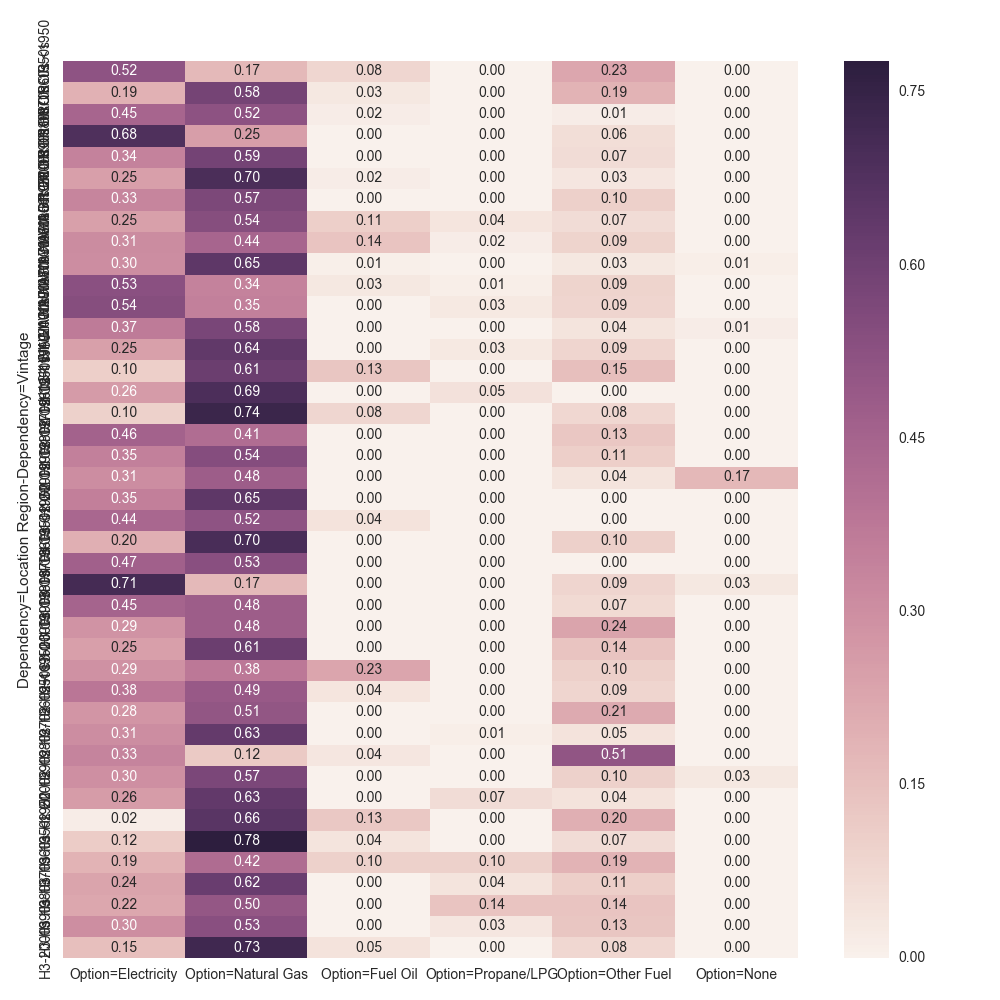
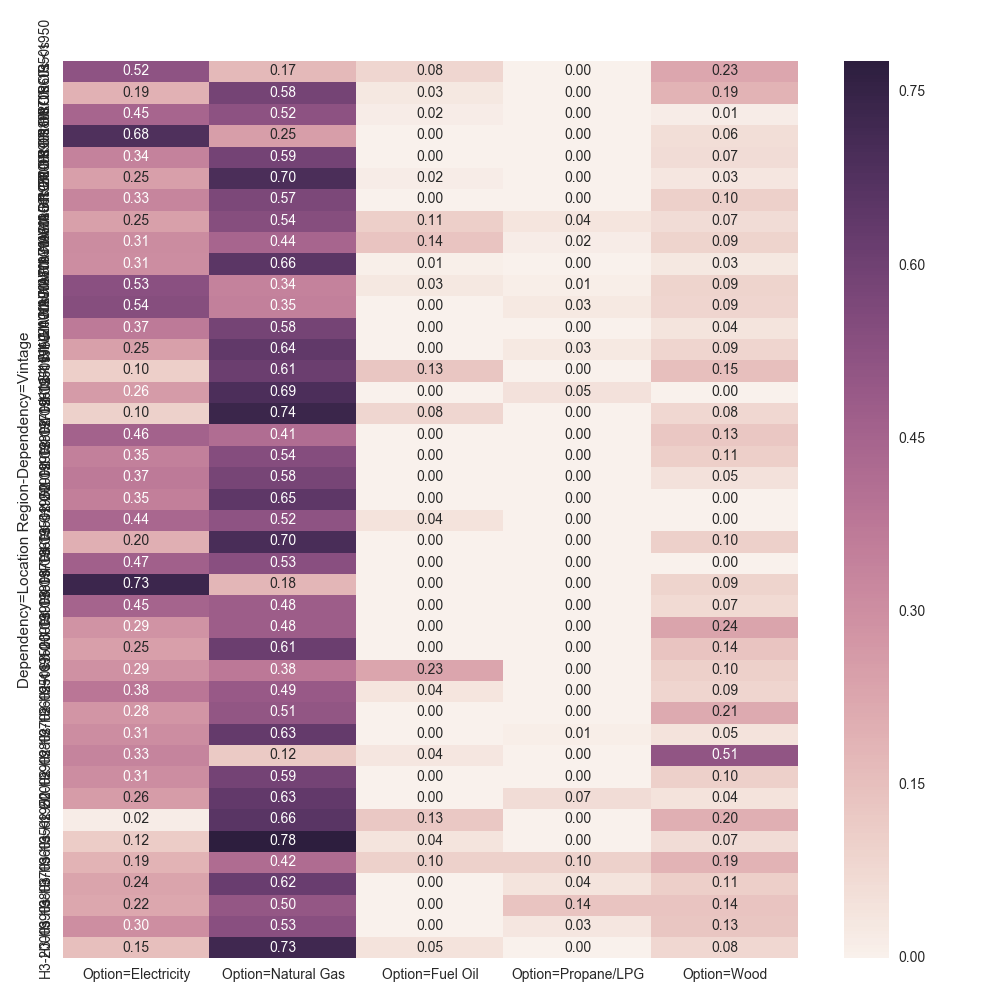
Removing None and renaming Other Fuel To Wood for Heating Fuel.

Changed region(s): [[0.062, 0.062, 0.806, 0.992]]

diff --git a/data/rbsa/main.py b/data/rbsa/main.py
@@ -83,7 +83,7 @@ class Create_DFs():
             df_new['Weight'] = 0
             df = df.append(df_new)
         df = add_option_prefix(df)
-        df = df[['Option=Electricity', 'Option=Natural Gas', 'Option=Fuel Oil', 'Option=Propane/LPG', 'Option=Other Fuel', 'Option=None', 'Count', 'Weight']]
+        df = df[['Option=Electricity', 'Option=Natural Gas', 'Option=Fuel Oil', 'Option=Propane/LPG', 'Option=Wood', 'Count', 'Weight']]
         df = df.reset_index()
         df['Dependency=Vintage'] = pd.Categorical(df['Dependency=Vintage'], ['<1950', '1950s', '1960s', '1970s', '1980s', '1990s', '2000s'])        
         df = df.sort_values(by=['Dependency=Location Region', 'Dependency=Vintage']).set_index(['Dependency=Location Region', 'Dependency=Vintage'])        
@@ -1145,7 +1145,7 @@ if __name__ == '__main__':
     dfs = Create_DFs('rbsa.sqlite')
     
 #    for category in ['Location Region', 'Vintage', 'Heating Fuel', 'Geometry Foundation Type', 'Geometry House Size', 'Geometry Stories', 'Insulation Unfinished Attic', 'Insulation Wall', 'Heating Setpoint', 'Cooling Setpoint', 'Insulation Slab', 'Insulation Crawlspace', 'Insulation Unfinished Basement', 'Insulation Finished Basement', 'Insulation Interzonal Floor', 'Windows', 'Infiltration', 'HVAC System Combined', 'HVAC System Heating', 'HVAC System Cooling', 'HVAC System Is Combined', 'Ducts', 'Water Heater', 'Lighting', 'Cooking Range', 'Clothes Dryer', 'Insulation Wall H1', 'Insulation Wall H2', 'Insulation Wall H3', 'Insulation Unfinished Attic H1', 'Insulation Unfinished Attic H2', 'Insulation Unfinished Attic H3', 'Windows H1', 'Windows H2', 'Windows H3']:
-    for category in ['Ducts']:
+    for category in ['Heating Fuel']:
         print category
         method = getattr(dfs, category.lower().replace(' ', '_'))
         df = method()

diff --git a/data/rbsa/util.py b/data/rbsa/util.py
@@ -125,10 +125,12 @@ def assign_heating_fuel(df):
                    'Gas': 'Natural Gas',
                    'Oil/Kerosene': 'Fuel Oil',
                    'Propane': 'Propane/LPG',
-                   'Wood': 'Other Fuel',
-                   'Other': 'Other Fuel',
+                   'Wood': 'Wood',
                    'Oil': 'Fuel Oil',
-                   'Pellets': 'Other Fuel'}
+                   'Pellets': 'Wood'}
+    
+    # skip None
+    # and rename Other Fuel To Wood (there are no primary Other in RBSA)
     
     def fuel(hvacheating):
         for eq in hvacheating:
@@ -139,7 +141,7 @@ def assign_heating_fuel(df):
                     return None
     
     df['Dependency=Heating Fuel'] = df.apply(lambda x: fuel(x.object.hvacheating), axis=1)
-    df['Dependency=Heating Fuel'] = df['Dependency=Heating Fuel'].fillna('None')
+    df = df[pd.notnull(df['Dependency=Heating Fuel'])]
 
     return df
 
